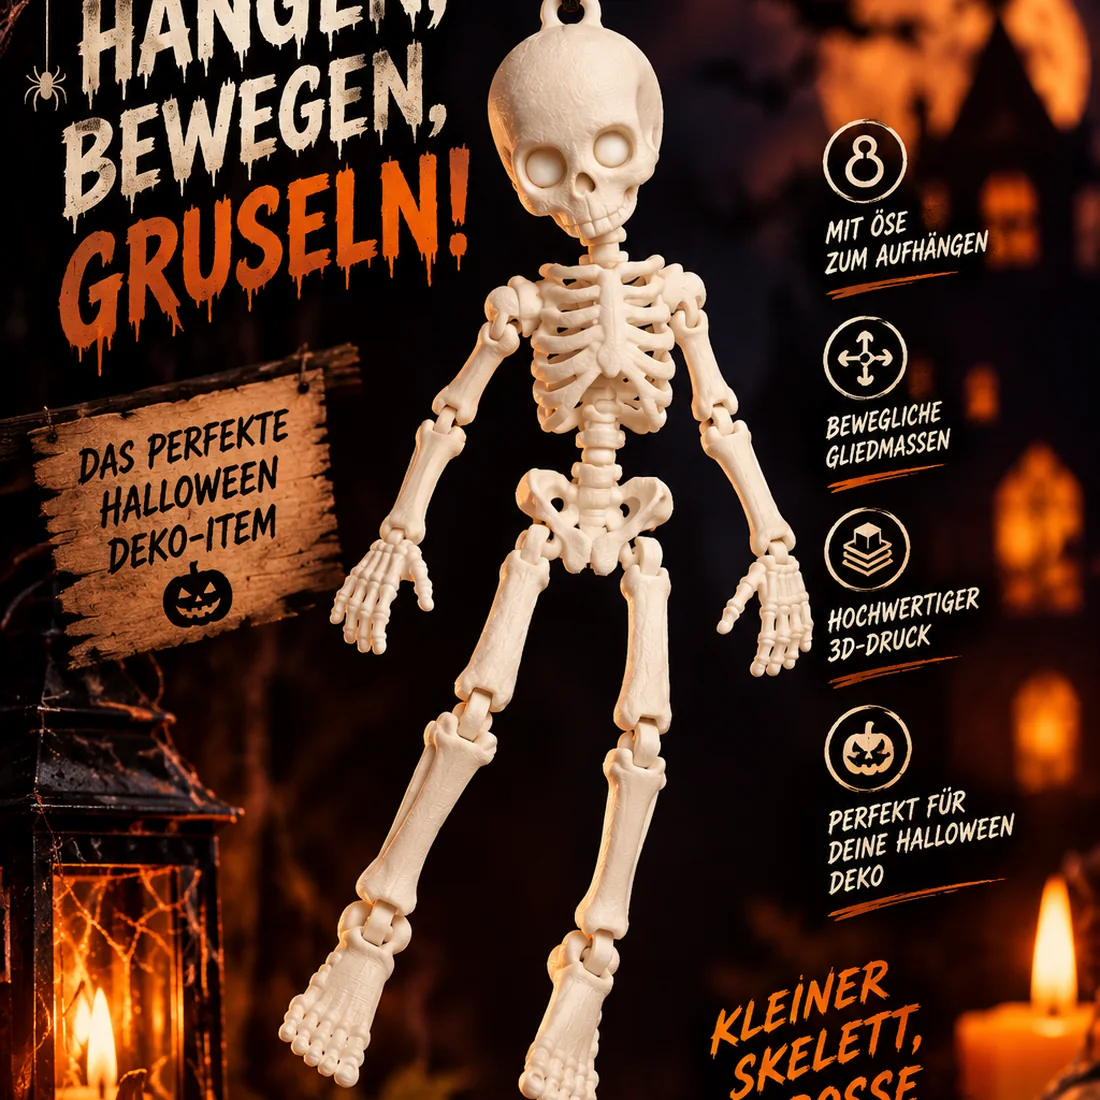
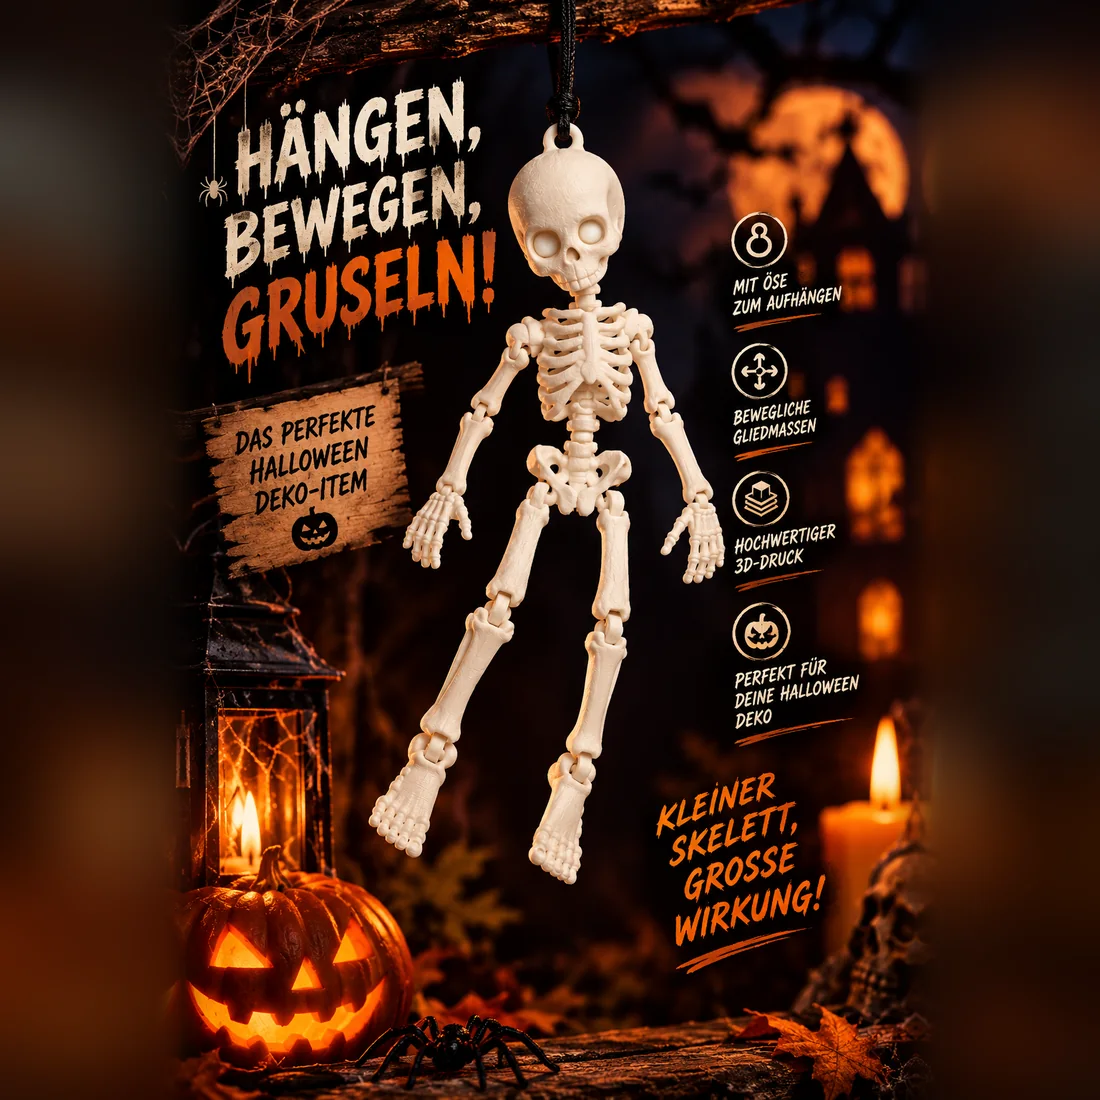
Skelett: Detailbilder komplett sichtbar (Schrift), Seiten dunkel zum Quadrat erweitert
Claude-Session: https://claude.ai/code/session_01J3XNNkixmMVkzjtWsont1N

diff --git a/lib/shop/fotos.ts b/lib/shop/fotos.ts
@@ -45,7 +45,7 @@ const ALT: Record<string, string[]> = {
     "Kürbis mit Gesicht, orange mit schwarzem Stiel, Premium LED Halloween-Licht",
     "Leuchtender 3D-Druck-Kürbis im Mondlicht mit LED-Teelicht",
   ],
-  // Titelbild (Cover) zuerst, dann 4.webp (hängend im Halloween-Look) und 5.webp (sitzend im Halloween-Zauber), beide Hochformat, quadratisch zugeschnitten
+  // Titelbild (Cover) zuerst, dann 4.webp (hängend im Halloween-Look) und 5.webp (sitzend im Halloween-Zauber), beide Hochformat: komplett sichtbar, Seiten dunkel weichgezeichnet zum Quadrat erweitert
   "skelett-beweglich": [
     "Bewegliches Skelett hängt an einer Schnur vor Halloween-Kulisse (gestaltetes Bild)",
     "Bewegliches Skelett sitzt zwischen Kürbissen und Kerzen (gestaltetes Bild)",
